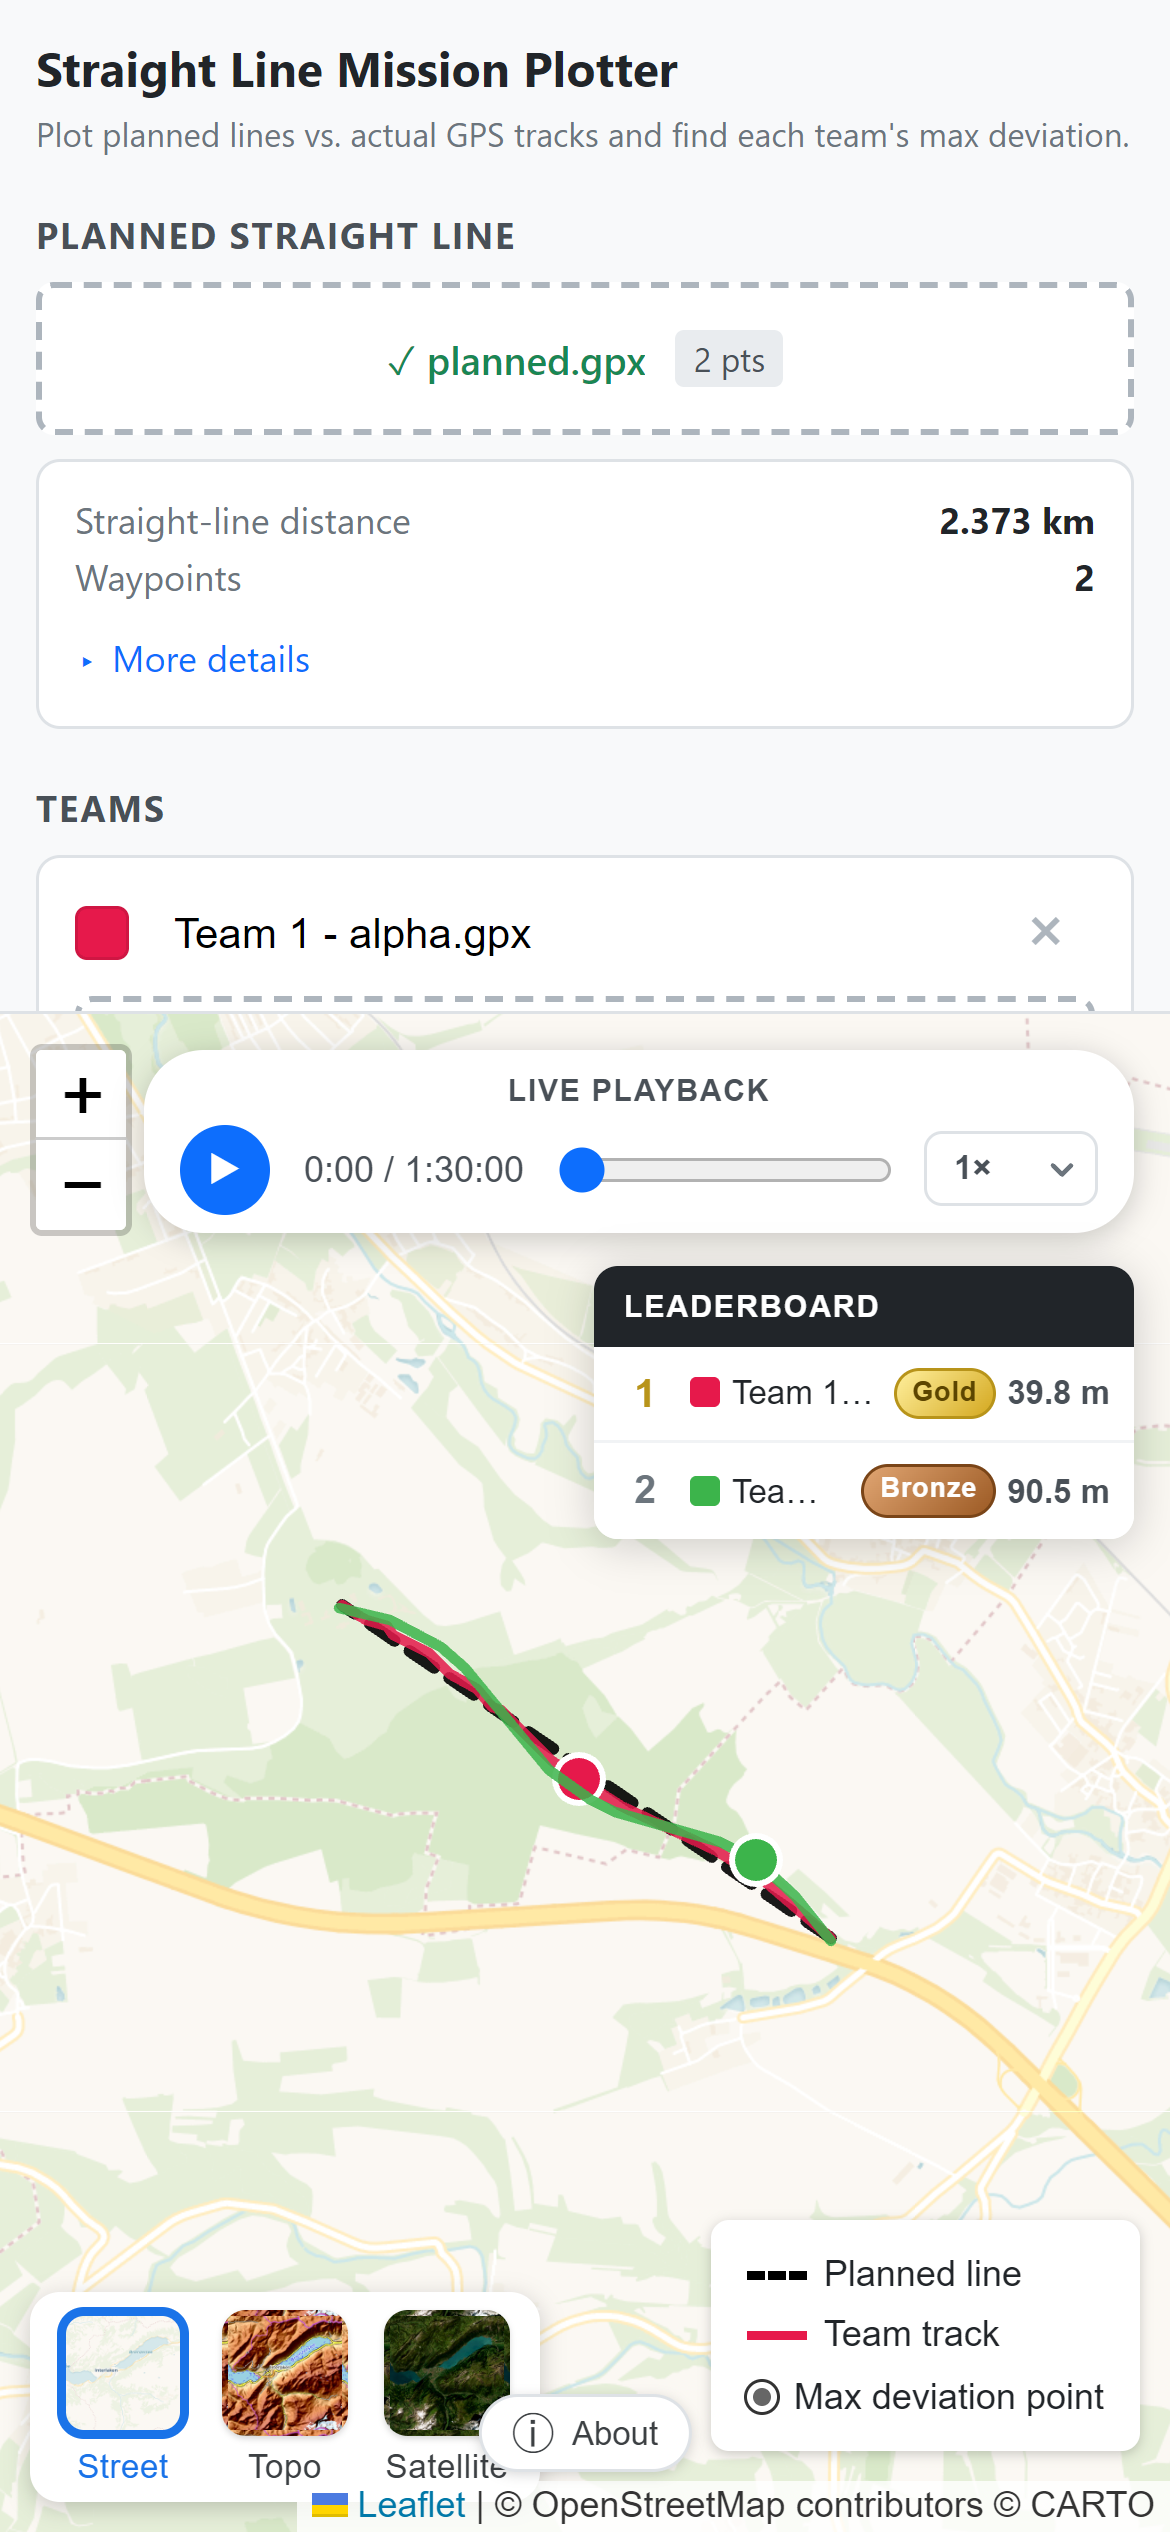
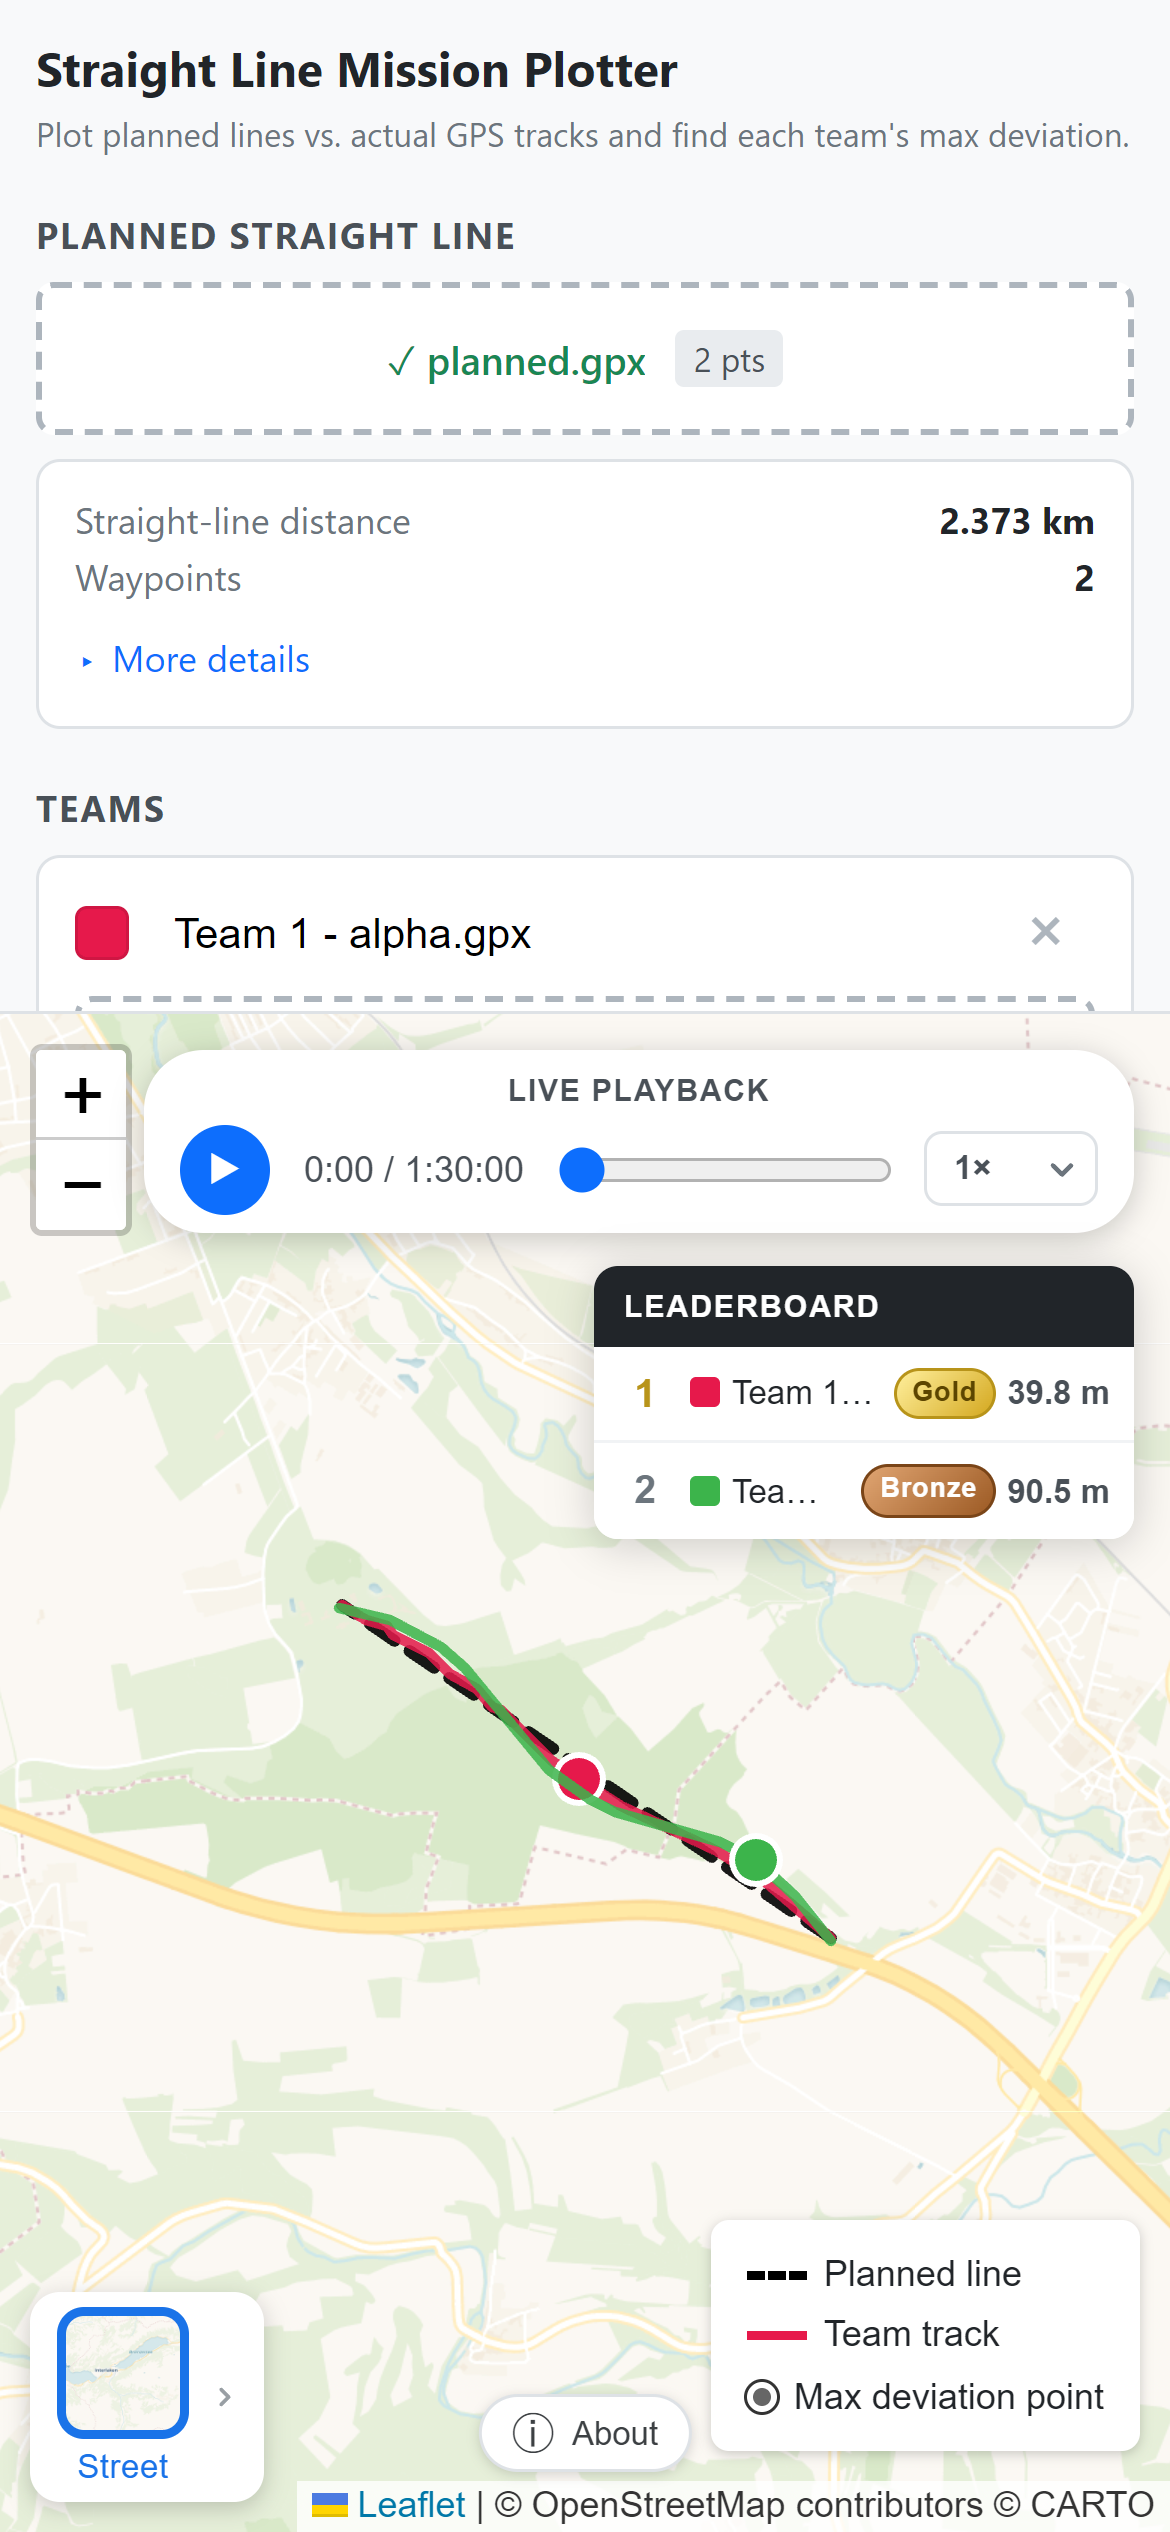
Document 3D terrain feature and refresh screenshots (desktop in 3D mode)

Changed region(s): [[0.1846, 0.9048, 0.4615, 0.9984]]

diff --git a/README.md b/README.md
@@ -29,7 +29,7 @@ Drop in the planned line and each team's GPS track; the app overlays everything 
   - ≤ 100 m — Bronze
 - **Live leaderboard** (top-right of the map) that ranks teams by max deviation
 - **Elevation profiles** (sparklines) plus ascent / descent / min–max from `<ele>` tags or FIT altitude records
-- **Basemap switcher** with thumbnails — Street (CartoDB Voyager), Topo (OpenTopoMap with contour lines / Isohypsen), and Satellite (Esri World Imagery)
+- **Basemap switcher** (collapses to the active tile; click to expand) — Street (CartoDB Voyager), Topo (OpenTopoMap with contour lines / Isohypsen), Satellite (Esri World Imagery), and **3D** terrain with pitch/rotate (MapLibre GL + AWS Terrain DEM, lazy-loaded on first click; no API key required)
 - **Live playback** — animate every team's GPS marker along its track at 1× / 5× / 10× / 20× / 50× / 100× speed, normalised to each team's own start so runs from different days can be compared side-by-side
 - **PDF export** — one A4 portrait page per team with name, rank, medal, full stats, a map snapshot (planned line + team track + max-deviation marker), and the elevation profile
 - Accurate geometry (local 2D projection pipeline + Douglas–Peucker simplification + spatial grid index), with a Web Worker so stats computation doesn't block the UI
